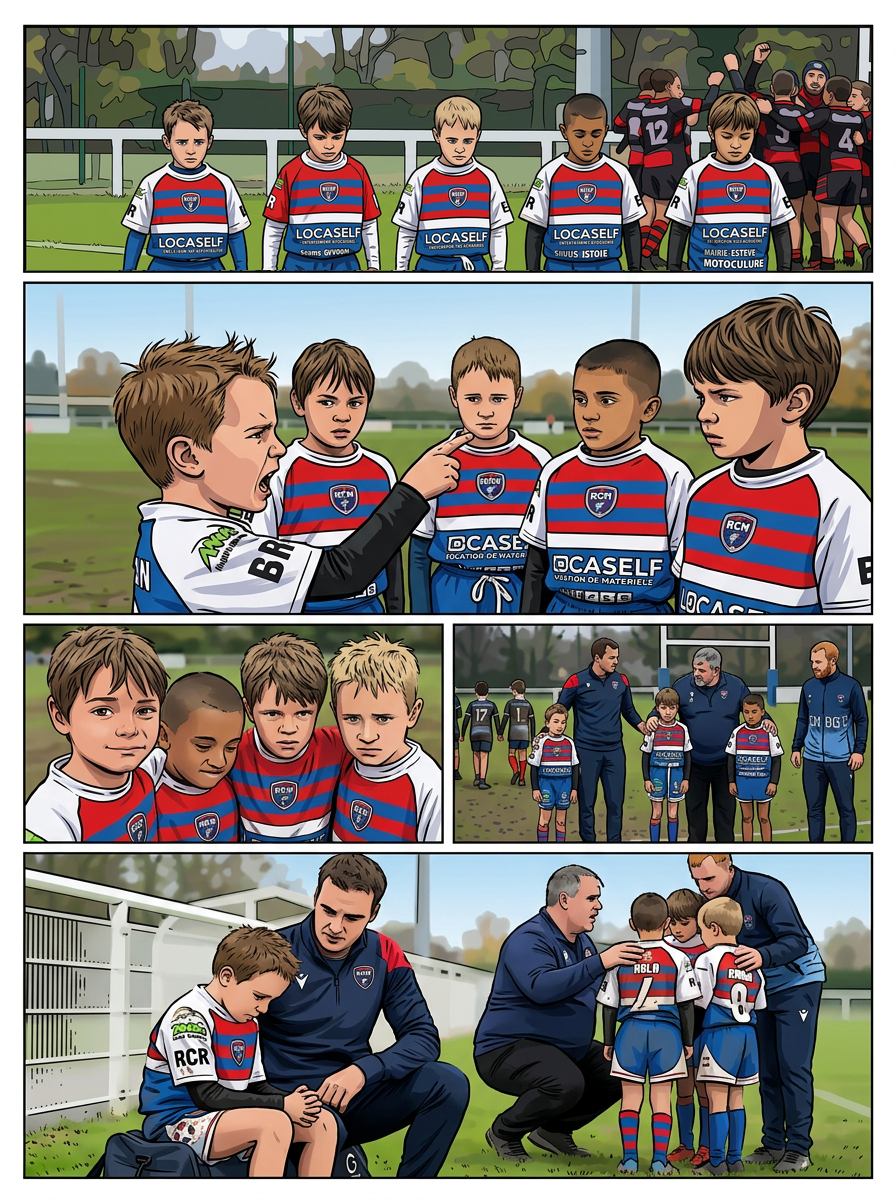
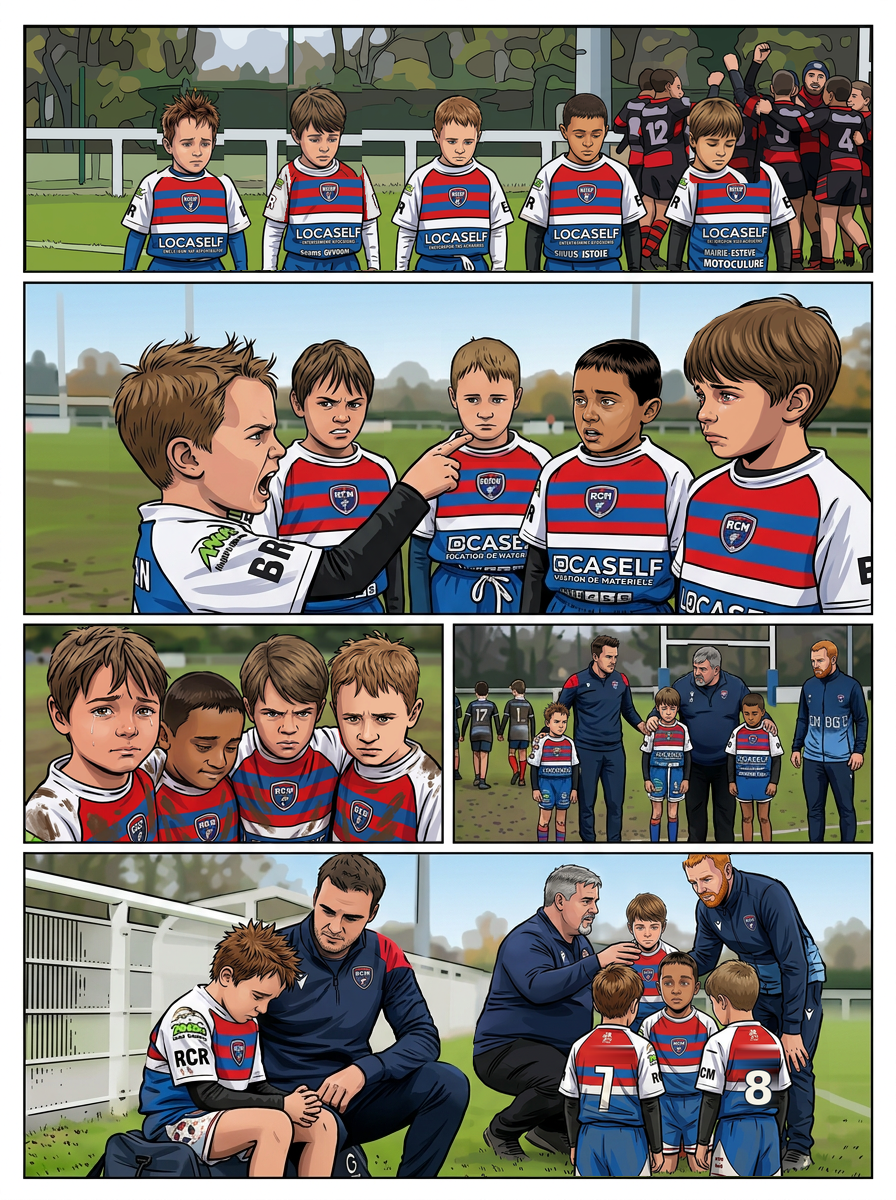
Reprendre les cinq cases de la planche 14 selon la couverture

diff --git a/Planches-dessin/validation/REVUE-COUVERTURE.md b/Planches-dessin/validation/REVUE-COUVERTURE.md
@@ -21,13 +21,13 @@ Les huit recadrages exacts sont dans `revue-couverture/<Prénom>-couverture.png`
 |---|---:|
 | Planches vues en ensemble | 30 |
 | Vignettes réellement inventoriées | 153 |
-| Premières reprises intégrées, encore à relire | 69 |
-| Corrections seulement partielles, à poursuivre | 1 |
+| Premières reprises intégrées, encore à relire | 74 |
+| Corrections seulement partielles, à poursuivre | 0 |
 | Contrôles sans retouche, encore à relire | 1 |
-| Autres vignettes restant à contrôler individuellement | 82 |
+| Autres vignettes restant à contrôler individuellement | 78 |
 | Validations définitives de style et ressemblance | **0** |
 
-Les 70 vignettes ayant reçu une intervention ne sont pas 70 vignettes définitivement conformes. Le reste de la revue demandée n’est pas terminé. Le manifeste `REVUE-COUVERTURE.json` conserve une entrée et un état explicite pour chacune des 153 vignettes.
+Les 74 vignettes ayant reçu une intervention ne sont pas 74 vignettes définitivement conformes. Le reste de la revue demandée n’est pas terminé. Le manifeste `REVUE-COUVERTURE.json` conserve une entrée et un état explicite pour chacune des 153 vignettes.
 
 ## Première livraison : 26/3 et 26/6
 
@@ -259,6 +259,24 @@ Preuves : `revue-couverture/lot-o/13-AVANT-APRES.jpg` et cinq masques. Aucun can
 
 Le vérificateur cumulatif prend désormais en charge les contrôles sans retouche : liste distincte, état cohérent, absence de double comptage, somme des catégories égale à 153 et pixels identiques au commit de référence de chaque relecture. Les contrôles de couverture, dimensions, empreintes et localité des corrections demeurent en place. Cette vérification d'invariance ne certifie pas le style du paysage.
 
+## Seizième livraison : les cinq vignettes de la planche 14
+
+L'ancienne correction partielle de **14/2** est remplacée dans le registre, pas comptée deux fois ; son masque cumulatif conserve la première intervention. Cinq premières reprises, pas cinq validations définitives.
+
+**14/1 :** Cinq garçons sortant tristes gauche à droite Léon/Lyssandro/Ayden/Nolann/Milo : pics châtains de Léon, courte frange châtain clair d'Ayden et courte frange brun foncé de Nolann rétablis. Portraits locaux spécifiques pour Ayden et Nolann, manches de Lyssandro blanchies sans toucher les sous-maillots. Groupe adverse célébrant et corps hors masques conservés.
+
+**14/2 :** Ancienne correction partielle de palette dépassée par une première reprise des cinq portraits : Léon criant de profil et pointant, Lyssandro/Ayden blessés, Nolann à courte frange brun foncé/teint mat, Milo à frange pleine châtaine et yeux humides. Têtes spécifiques pour Nolann et Milo. Geste du doigt, corps/tenues et disposition d'origine hors masques conservés ; pas de bulle ajoutée.
+
+**14/3 :** Quatre copains gauche à droite Milo/Nolann/Lyssandro/Ayden. Le sourire erroné de Milo est remplacé par des yeux mouillés et des larmes, bouche blessée ; Nolann baisse la tête avec lèvre mordue et retrouve sa courte frange brune ; Lyssandro et Ayden restent furieux/tristes. Cheveux blonds d'Ayden remplacés par un portrait local châtain clair. Manches courtes blanches et boue rapprochées de la scène. Vignette entière reprise, quatre personnages et contacts de soutien relus.
+
+**14/4 :** Portraits des trois coachs repris : Flavien brun à légère pilosité, Julien gris à bouc/moustache, Kilian roux barbu. Léon à gauche, Milo au centre et Nolann à droite identifiés ; pics, frange pleine et courte frange respectives, visages tristes. Gestes sur les épaules, corps et deux joueurs d'une autre équipe vus de dos hors masques préservés.
+
+**14/5 :** Léon regrettant sur son sac et Flavien à ses côtés repris localement. Groupe de consolation reconstruit : Julien et Kilian avec QUATRE enfants (Milo de dos gauche, Nolann face avant au milieu, Ayden de dos droite, Lyssandro visible derrière). La source ne montrait que trois enfants : quatrième rétabli selon le scénario. Noms ajoutés aux dos par le candidat supprimés ; numéros 7 et 8 des deux dos conservés. Terrain/cadrage général maintenus, corps du groupe de consolation nécessairement repris.
+
+Preuves : `revue-couverture/lot-p/14-AVANT-APRES.jpg`, cinq masques de ce lot et cinq masques cumulatifs. Les cases 14/1, 14/2 et 14/4 utilisent des imports locaux, 14/3 une reprise complète, 14/5 une reconstruction bornée du groupe droit et deux portraits à gauche. La reconstruction de 14/5 est volontairement plus importante : la composition source était incomplète au regard du scénario. Le quatrième enfant n'est ni un doublon ni un figurant ajouté arbitrairement. Les noms inventés sur les dos ont été effacés et le 8 conservé pour Ayden, avec réfection locale du chiffre.
+
+**Réserves pour la relecture transversale :** âge apparent et niveau de détail des portraits par rapport aux corps, continuité des carnations visage/membres de Nolann, manches et raccords d'épaule de Lyssandro en 14/1, contact des mains de soutien et tenues de 14/3, reconstruction du groupe et propreté des marquages de dos en 14/5. Aucun dialogue, bulle ou onomatopée ajouté. Les 78 cases encore non reprises ne sont pas réputées conformes.
+
 ## Contrôles techniques et audits historiques
 
 `outils/retouche/verifier_revue_couverture.py` compare les 31 PNG au début de la revue : couverture inchangée, dimensions, empreintes, absence de modification des fichiers non concernés et invariance des pixels hors masques. Il contrôle également la cohérence des états et du bilan. **Il ne mesure pas la ressemblance ou la qualité du dessin.**
@@ -267,7 +285,7 @@ Les vérificateurs des audits 13–22, comme ceux de 23–30, s’appliquent dé
 
 ## Suite obligatoire
 
-Contrôler individuellement les **82 autres vignettes**, terminer **14/2**, puis relire les premières reprises, notamment les six cases de la planche 4 et les réserves de scénario. Vérifier systématiquement chaque occurrence de Nolann et des sept autres personnages, ainsi que décors et encrage : la revue ne peut pas se limiter aux couleurs de peau/cheveux.
+Contrôler individuellement les **78 autres vignettes**, terminer **14/2**, puis relire les premières reprises, notamment les six cases de la planche 4 et les réserves de scénario. Vérifier systématiquement chaque occurrence de Nolann et des sept autres personnages, ainsi que décors et encrage : la revue ne peut pas se limiter aux couleurs de peau/cheveux.
 
 Procédure : identification au scénario → comparaison aux personnages de couverture → comparaison à la planche réaliste → correction locale → relecture en contexte de page. Les raccords cou/cheveux/mains et les tenues restent à contrôler. Aucun candidat simplement généré n’est automatiquement validé.
 

diff --git a/Planches-dessin/SUIVI-STYLE.md b/Planches-dessin/SUIVI-STYLE.md
@@ -2,7 +2,7 @@
 
 **La couverture `00-couverture-marvel.png` est désormais la seule référence de style et d’identité.** La décision utilisateur remplace la priorité V2 décrite dans l’historique ci-dessous. La couverture reste inchangée.
 
-Suivi actuel : [`validation/REVUE-COUVERTURE.md`](validation/REVUE-COUVERTURE.md) et son manifeste JSON : 153 vignettes inventoriées, 69 premières reprises, 1 contrôle sans retouche, 1 correction partielle, 82 autres contrôles individuels à faire, aucune validation définitive. Les anciennes approbations ne valent pas conformité au nouveau référentiel.
+Suivi actuel : [`validation/REVUE-COUVERTURE.md`](validation/REVUE-COUVERTURE.md) et son manifeste JSON : 153 vignettes inventoriées, 74 premières reprises, 1 contrôle sans retouche, 0 correction partielle, 78 autres contrôles individuels à faire, aucune validation définitive. Les anciennes approbations ne valent pas conformité au nouveau référentiel.
 
 ---
 
